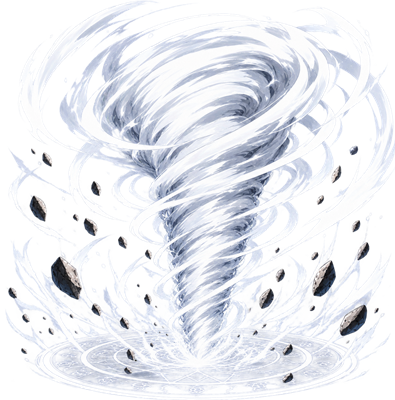
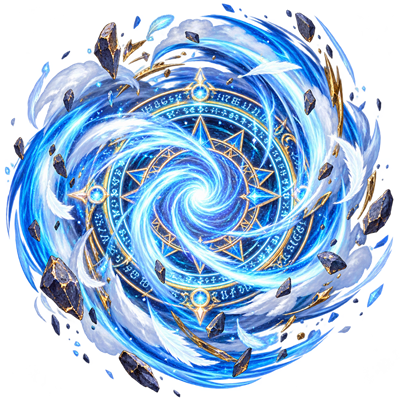
カードバトラー★ケン：召喚演出を青い魔法陣デザインに差し替え、回転をゆっくり(0.9s→1.8s)に調整

diff --git a/games/009-card-battler-ken/index.html b/games/009-card-battler-ken/index.html
@@ -109,7 +109,7 @@
     z-index:5;
     transform:translate(-50%,-50%) scale(.25) rotate(0deg);
   }
-  .summon-tornado.playing{ animation:summonTornadoSpin .9s ease-out forwards; }
+  .summon-tornado.playing{ animation:summonTornadoSpin 1.8s ease-out forwards; }
   @keyframes summonTornadoSpin{
     0%{ opacity:0; transform:translate(-50%,-50%) scale(.25) rotate(0deg); }
     22%{ opacity:1; }
@@ -734,13 +734,13 @@
   }
   function wait(ms){ return new Promise(function(resolve){ setTimeout(resolve, ms); }); }
 
-  // 召喚演出：竜巻が回転・拡大しながら晴れる（900ms）。晴れきったタイミングでキャラの絵に差し替える
+  // 召喚演出：竜巻が回転・拡大しながら晴れる（1800ms）。晴れきったタイミングでキャラの絵に差し替える
   function playSummonTornado(){
     return new Promise(function(resolve){
       summonTornado.classList.remove("playing");
       void summonTornado.offsetWidth; // reflowでアニメーションを頭から再生させる
       summonTornado.classList.add("playing");
-      setTimeout(resolve, 900);
+      setTimeout(resolve, 1800);
     });
   }
 
